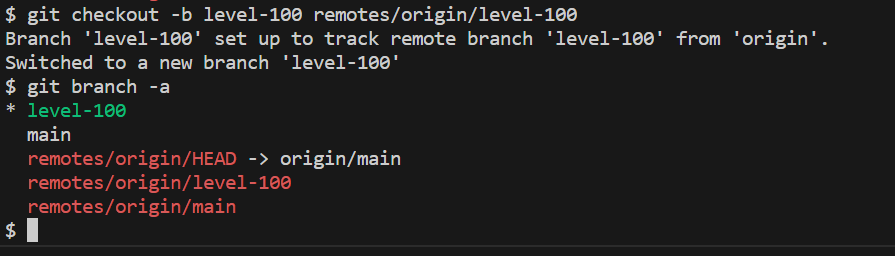
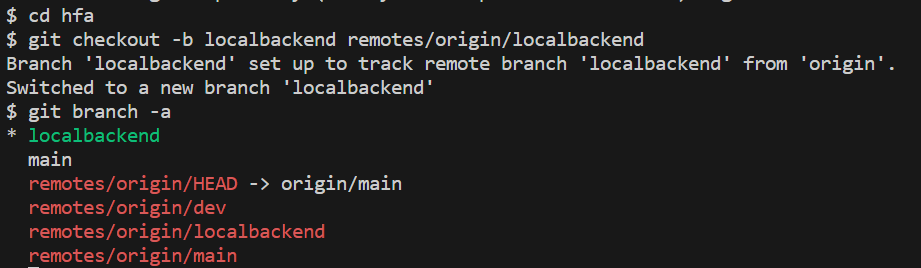
update instructions

Changed region(s): [[0.0, 0.0, 0.9654, 1.0]]

diff --git a/Level100.md b/Level100.md
@@ -55,9 +55,10 @@ git clone https://github.com/Huawei-APAC-Professional-Services/hfa.git
 ```
 ![Clone Repo](./images/100-level/001-clone-repo-01.png)
 
-2.  checkout the `level-100` branch and check you are working on `level-100` branch with the following command
+2.  checkout the `localbackend` branch and check you are working on `localbackend` branch with the following command
 ```
-git checkout -b level-100 remotes/origin/level-100
+cd hfa
+git checkout -b localbackend remotes/origin/localbackend
 git branch -a
 ```
 ![Clone Repo](./images/100-level/001-clone-repo-04.png)
@@ -70,11 +71,7 @@ git branch -a
 
 ### Provisioning IAM Resources
 
-1. Change to `hfa` directory in the terminal
-```
-cd hfa
-```
-2. Get the AK/SK from [Create IAM User in Central IAM Account](#create-iam-user-in-central-iam-account) and Set the environment variables with the following command
+1. Get the AK/SK from [Create IAM User in Central IAM Account](#create-iam-user-in-central-iam-account) and Set the environment variables with the following command
 ```
 export HW_ACCESS_KEY="anaccesskey"
 export HW_SECRET_KEY="asecretkey"
@@ -83,20 +80,19 @@ export HW_REGION_NAME="ap-southeast-3"
 
 ![env](./images/100-level/004-hfa-iam-init-01.png)
 
-3. Execute the following command to initialize the terraform
+2. Execute the following command to initialize the terraform
 ```
 terraform -chdir=HFA-IAM/ init
 ```
 ![initialization](./images/100-level/004-hfa-iam-init-02.png)
 ![initialization](./images/100-level/004-hfa-iam-init-03.png)
 
-4. Execute the following command to format and validate the `HFA-IAM` configuration, if there is any errors raised, you need to solve the error to continue the workshop
+3. Execute the following command to format and validate the `HFA-IAM` configuration, if there is any errors raised, you need to solve the error to continue the workshop
 ```
-terraform -chdir=HFA-IAM/ fmt
 terraform -chdir=HFA-IAM/ validate
 ```
 
-5. Execute the following command to apply the `HFA-IAM` configuration, when you are prompted to provide confirmation, type `yes`
+4. Execute the following command to apply the `HFA-IAM` configuration, when you are prompted to provide confirmation, type `yes`
 ```
 terraform -chdir=HFA-IAM/ apply
 ```
